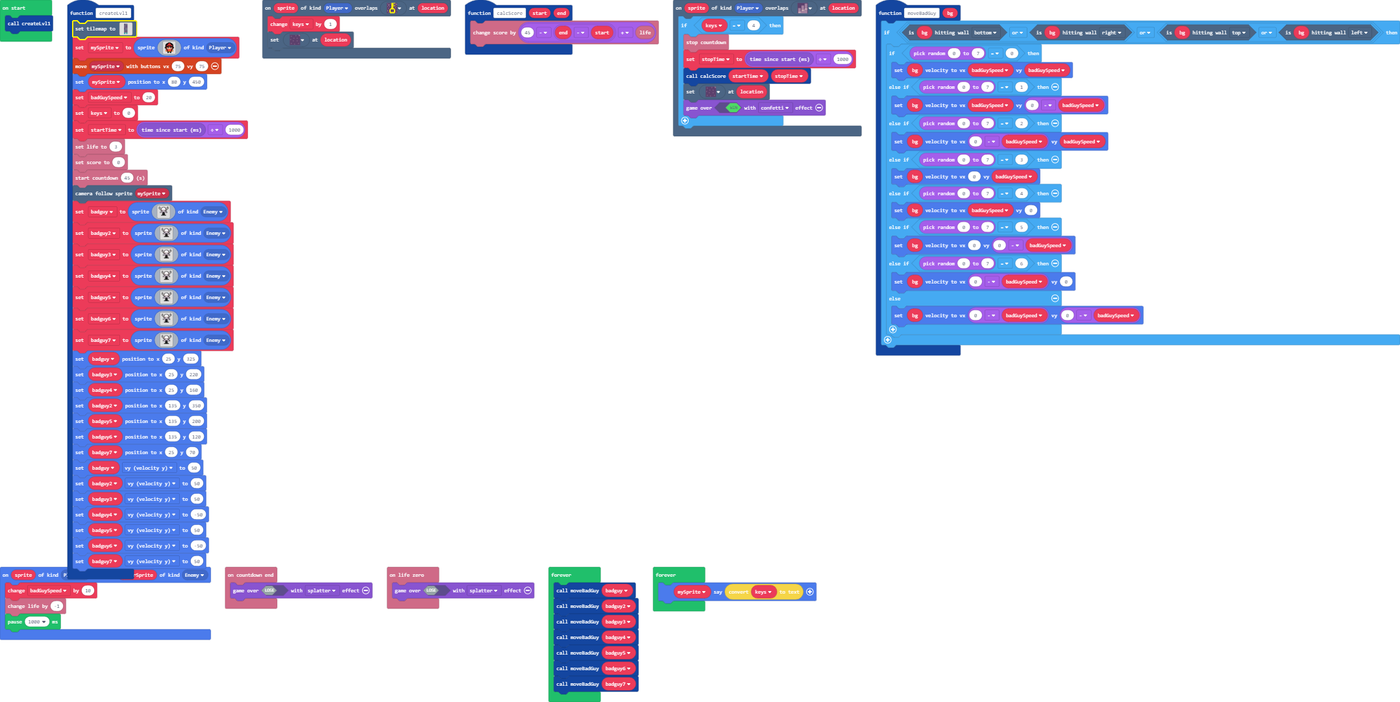
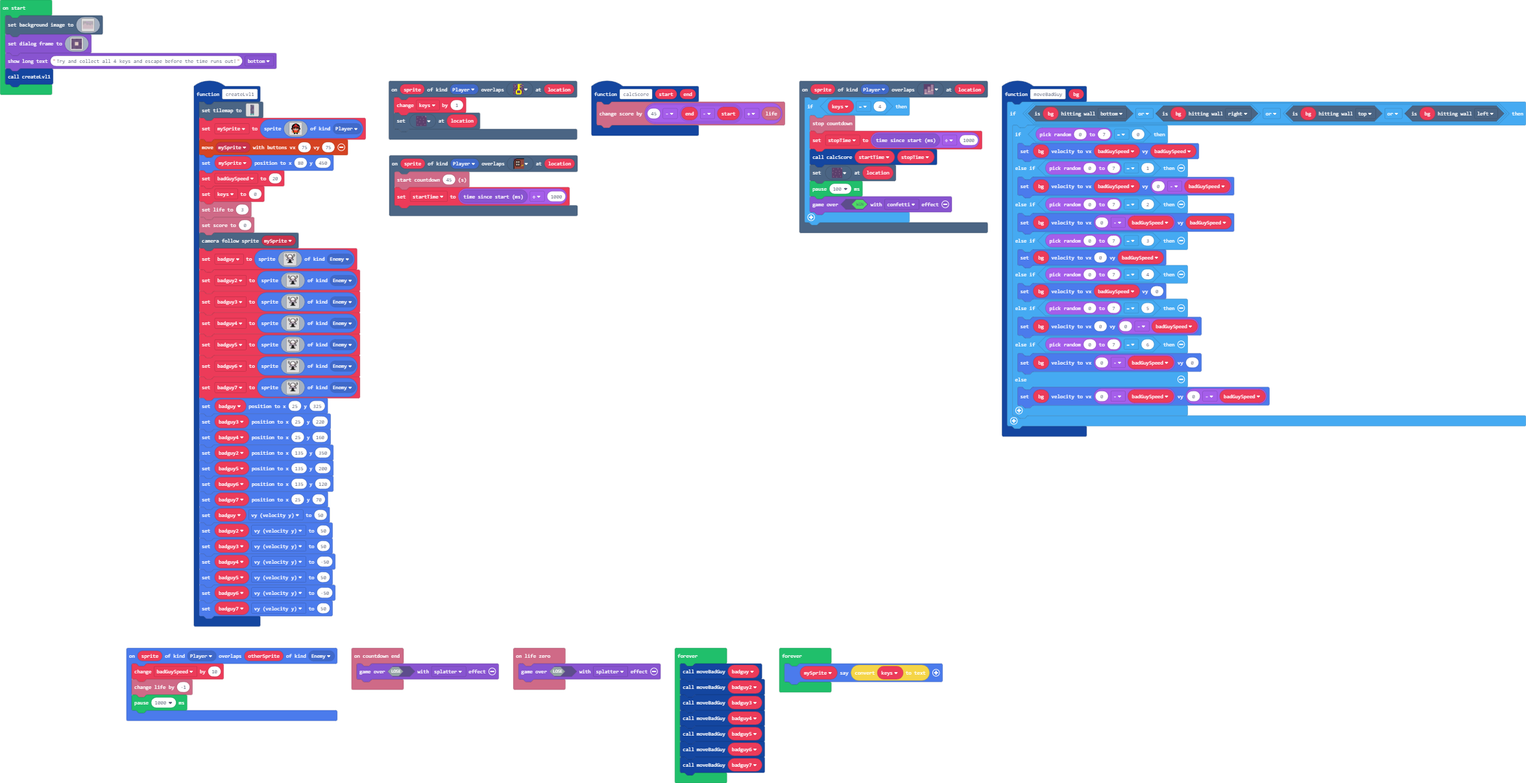
added title screen

diff --git a/main.ts b/main.ts
@@ -37,10 +37,48 @@ c c c c 5 5 c c c c c 5 5 c c c
 c c b c 5 5 5 5 5 5 5 5 5 c b c 
 c c c c c 5 5 5 5 5 5 5 c c c c 
 `
+    //% blockIdentity=images._tile
+    export const tile2 = img`
+c c c c f f f f f f f f f f f f 
+c c f f e e e e e e e e e e e e 
+c f e e e e e e e e e e e e e e 
+c f e f f f f f f f e e e e e e 
+f e e f d d f d d f e e e e e e 
+f e e f d d f d d f e e e e e e 
+f e e f d d f d d f e e e e e e 
+f e e f f f f f f f e e e e e e 
+f e e f d d f d d f e e e e e e 
+f e e f d d f d d f e e e e e e 
+f e e f d d f d d f e e e 5 5 e 
+f e e f f f f f f f e e 5 e e e 
+f e e e e e e e e e e e e e e e 
+f e e e e e e e e e e e e e e e 
+f e e e e e e e e e e e e e e e 
+f e e e e e e e e e e e e e e e 
+`
+    //% blockIdentity=images._tile
+    export const tile3 = img`
+f f f f f f f f f f f f c c c c 
+e e e e e e e e e e e e f f c c 
+e e e e e e e e e e e e e e f c 
+e e e e e e f f f f f f f e f c 
+e e e e e e f d d f d d f e e f 
+e e e e e e f d d f d d f e e f 
+e e e e e e f d d f d d f e e f 
+e e e e e e f f f f f f f e e f 
+e e e e e e f d d f d d f e e f 
+e e e e e e f d d f d d f e e f 
+e 5 5 e e e f d d f d d f e e f 
+e e e 5 e e f f f f f f f e e f 
+e e e e e e e e e e e e e e e f 
+e e e e e e e e e e e e e e e f 
+e e e e e e e e e e e e e e e f 
+e e e e e e e e e e e e e e e f 
+`
 }
 function createLvl1 () {
     tiles.setTilemap(tiles.createTilemap(
[2 lines of base64/hex data omitted]
             img`
 . . . . . . . . . . 
 . 2 2 2 2 2 2 2 2 2 
@@ -73,7 +111,7 @@ function createLvl1 () {
 . . . . . . . . . . 
 . . . . . . . . . . 
 `,
-            [myTiles.tile0,sprites.castle.rock0,sprites.castle.tileGrass2,sprites.castle.tilePath6,sprites.castle.tilePath4,sprites.dungeon.floorLight2,sprites.dungeon.floorLight0,sprites.dungeon.greenOuterSouth0,sprites.dungeon.greenOuterSouthWest,sprites.dungeon.greenOuterNorthWest,sprites.dungeon.floorLight4,sprites.dungeon.greenOuterEast1,sprites.dungeon.greenOuterSouthEast,sprites.dungeon.greenOuterWest1,sprites.dungeon.greenOuterNorth0,sprites.dungeon.doorLockedWest,sprites.dungeon.greenOuterEast0,sprites.dungeon.greenOuterNorthEast,sprites.dungeon.greenInnerSouthEast,sprites.dungeon.greenInnerNorthWest,sprites.dungeon.stairLarge,sprites.dungeon.darkGroundSouthWest1,myTiles.tile1,sprites.castle.tileGrass1,sprites.castle.tileDarkGrass1],
+            [myTiles.tile0,sprites.castle.rock0,sprites.castle.tileGrass2,sprites.castle.tilePath6,sprites.castle.tilePath4,sprites.dungeon.floorLight2,sprites.dungeon.floorLight0,sprites.dungeon.greenOuterSouth0,sprites.dungeon.greenOuterSouthWest,sprites.dungeon.greenOuterNorthWest,sprites.dungeon.floorLight4,sprites.dungeon.greenOuterEast1,sprites.dungeon.greenOuterSouthEast,sprites.dungeon.greenOuterWest1,sprites.dungeon.greenOuterNorth0,sprites.dungeon.doorLockedWest,sprites.dungeon.greenOuterEast0,sprites.dungeon.greenOuterNorthEast,sprites.dungeon.greenInnerSouthEast,sprites.dungeon.greenInnerNorthWest,sprites.dungeon.stairLarge,sprites.dungeon.darkGroundSouthWest1,myTiles.tile1,sprites.castle.tileGrass1,sprites.castle.tileDarkGrass1,myTiles.tile2,myTiles.tile3],
             TileScale.Sixteen
         ))
     mySprite = sprites.create(img`
@@ -98,10 +136,8 @@ function createLvl1 () {
     mySprite.setPosition(80, 450)
     badGuySpeed = 20
     keys = 0
-    startTime = game.runtime() / 1000
     info.setLife(3)
     info.setScore(0)
-    info.startCountdown(45)
     scene.cameraFollowSprite(mySprite)
     badguy = sprites.create(img`
 . . f . . . . . . . . . . . . . . . . . . f . . 
@@ -313,6 +349,7 @@ scene.onOverlapTile(SpriteKind.Player, sprites.dungeon.stairLarge, function (spr
         stopTime = game.runtime() / 1000
         calcScore(startTime, stopTime)
         tiles.setTileAt(location, sprites.dungeon.darkGroundSouthWest1)
+        pause(100)
         game.over(true, effects.confetti)
     }
 })
@@ -345,9 +382,14 @@ sprites.onOverlap(SpriteKind.Player, SpriteKind.Enemy, function (sprite, otherSp
 info.onCountdownEnd(function () {
     game.over(false, effects.splatter)
 })
+scene.onOverlapTile(SpriteKind.Player, myTiles.tile2, function (sprite, location) {
+    info.startCountdown(45)
+    startTime = game.runtime() / 1000
+})
 info.onLifeZero(function () {
     game.over(false, effects.splatter)
 })
+let startTime = 0
 let stopTime = 0
 let badguy7: Sprite = null
 let badguy6: Sprite = null
@@ -356,10 +398,149 @@ let badguy4: Sprite = null
 let badguy3: Sprite = null
 let badguy2: Sprite = null
 let badguy: Sprite = null
-let startTime = 0
 let keys = 0
 let badGuySpeed = 0
 let mySprite: Sprite = null
+scene.setBackgroundImage(img`
+c c c c c c c c c c c c c c c c c c c c c c c c c c c c c c c c c c c c c c c c c c c c c c c c c c c c c c c c c c c c c c c c c c c c c c c c c c c c c c c c c c c c c c c c c c c c c c c c c c c c c c c c c c c c c c c c c c c c c c c c c c c c c c c c c c c c c c c c c c c c c c c c c c c c c c c c c c c c c c c c 
+c c c c c c c c c c c c c c c c c c c c c c c c c c c c c c c c c c c c c c c c c c c c c c c c c c c c c c c c c c c c c c c c c c c c c c c c c c c c c c c c c c c c c c c c c c c c c c c c c c c c c c c c c c c c c c c c c c c c c c c c c c c c c c c c c c c c c c c c c c c c c c c c c c c c c c c c c c c c c c c c 
+c c c c c c c c c c c c c c c c c c c c c c c c c c c c c c c c c c c c c c c c c c c c c c c c c c c c c c c c a a a d c c c c c c c c c c a a a d c c c c c c c c c c c c c c c c c c c c c c c c c c c c c c c c c c c c c c c c c c c c c c c c c c c c c c c c c c c c c c c c c c c c c c c c c c c c c c c c c c c c c c 
+c c c c c c c c c c c c c c c c c c c c c c c c c c c c c c c c c c c c c c c c c c c c c c c c c c c c c c c c a a a d c c c c c c c c c c a a a d c c c c c c c c c c c c c c c c c c c c c c c c c c c c c c c c c c c c c c c c c c c c c c c c c c c c c c c c c c c c c c c c c c c c c c c c c c c c c c c c c c c c c c 
+c c c c c c c c c c c c c c c c c c c c c c c c c c c c c c c c c c c c c c c c c c c c c c c c c c c c c c c c a a a d c c c c c c c c c c a a a d c c c c c c c c c c c c c c c c c c c c c c c c c c c c c c c c c c c c c c c c c c c c c c c c c c c c c c c c c c c c c c c c c c c c c c c c c c c c c c c c c c c c c c 
+c c c c c c c c c c c c c c c c c c c c c c c c c c c c c c c c c c c c c c c c c c c c c c c c c c c c c c c c a a a a d c c c c c c c c a a a a d c c c c c c c c c c c c c c c c c c c c c c c c c c c c c c c c c c c c c c c c c c c c c c c c c c c c c c c c c c c c c c c c c c c c c c c c c c c c c c c c c c c c c c 
+c c c c c c c c c c c c c c c c c c c c c c c c c c c c c c c c c c c c c c c c c c c c c c c c c c c c c c c c a a a a d c c c c c c c c a a a a d c c c c c c c c c c c c c c c c c c c c c c c c c c c c c c c c c c c c c c c c c c c c c c c c c c c c c c c c c c c c c c c c c c c c c c c c c c c c c c c c c c c c c c 
+c c c c c c c c c c c c c c c c c c c c c c c c c c c c c c c c c c c c c c c c c c c c c c c c c c c c c c c c a a a a d c c c c c c c c a a a a d c c c c c c c c c c c c c c c c c c c c c c c c c c c c c c c c c c c c c c c c c c c c c c c c c c c c c c c c c c c c c c c c c c c c c c c c c c c c c c c c c c c c c c 
+c c c c c c c c c c c c c c c c c c c c c c c c c c c c c c c c c c c c c c c c c c c c c c c c c c c c c c c c a a a a d c c c c c c c c a a a a d c c c c c c c c c c c c c c c c c c c c c c c c c c c c c c c c c c c c c c c c c c c c c c c c c c c c c c c c c c c c c c c c c c c c c c c c c c c c c c c c c c c c c c 
+c c c c c c c c c c c c c c c c c c c c c c c c c c c c c c c c c c c c c c c c c c c c c c c c c c c c c c c c c a a a d c c c c c c c c a a a d c c c c c c c c c c c c c c c c c c c c c c c c c c c c c c c c c c c c c c c c c c c c c c c c c c c c c c c c c c a a a d c c c c c c c c c c c c c c c c c c c c c c c c c 
+c c c c c c c c c c c c c c c c c c c c c c c c c c c c c c c c c c c c c c c c c c c c c c c c c c c c c c c c c a a a d c c c c c c c c a a a d c c c c c c c c c c c c c c c c c c c c c c c c c c c c c c c c c c c c c c c c c c c c c c c c c c c c c c c c c c a a a d c c c c c c c c c c c c c c c c c c c c c c c c c 
+c c c c c c c c c c c c c c c c c c c c c c c c c c c c c c c c c c c c c c c c c c c c c c c c c c c c c c c c c a a a d c c c c c c c c a a a d c c c c c c c c c c c c c c c c c c c c c c c c c c c c c c c c c c c c c c c c c c c c c c c c c c c c c c c c c c a a a d c c c c c c c c c c c c c c c c c c c c c c c c c 
+c c c c c c c c c c c c c c c c c c c c c c c c c c c c c c c c c c c c c c c c c c c c c c c c c c c c c c c c c a a a d c c c c c c c c a a a d c c c c c c c c c c c c c c c c c c c c c c c c c c c c c c c c c c c c c c c c c c c c c c c c c c c c c c c c c c a a a d c c c c c c c c c c c c c c c c c c c c c c c c c 
+c c c c c c c c c c c c c c c c c c c c c c c c c c c c c c c c c c c c c c c c c c c c c c c c c c c c c c c c c a a a a a a a a a a a a a a a d c c c c c c c c c c c c c c c c c c c c c c c c c c c c c c c c c c c c c c c c c c c c c c c c c c c c c c c c c c a a a d c c c c c c c c c c c c c c c c c c c c c c c c c 
+c c c c c c c c c c c c c c c c c c c c c c c c c c c c c c c c c c c c c c c c c c c c c c c c c c c c c c c c c a a a a a a a a a a a a a a a d c c c c c c c c c c c c c c c c c c c c c c c c c c c c c c c c c c c c c c c c c c c c c c c c c c c c c c c c c c a a a d c c c c c c c c c c c c c c c c c c c c c c c c c 
+c c c c c c c c c c c c c c c c c c c c c c c c c c c c c c c c c c c c c c c c c c c c c c c c c c c c c c c c c a a a a a a a a a a a a a a a d c c c c c c c c c c c c c c c c c c c c c c c c c c c c c c c c c c c c c c c c c c c c c c c c c c c c c c c c c c a a a d c c c c c c c c c c c c c c c c c c c c c c c c c 
+c c c c c c c c c c c c c c c c c c c c c c c c c c c c c c c c c c c c c c c c c c c c c c c c c c c c c c c c c a a a d d d d d d d d d a a a d c c c c c c c c c c c c c c c c c c c c c c c c c c c c c c c c c c c c c c c c c c c c c c c c c c c c c c a a a a a a a a a a a d c c c c c c c c c c c c c c c c c c c c c 
+c c c c c c c c c c c c c c c c c c c c c c c c c c c c c c c c c c c c c c c c c c c c c c c c c c c c c c c c c a a a d c c c c c c c c a a a d c c c c c c a a a a a a a a d c c c c c c a a a d c c c c c c a a a d c c c c a a a d c c c c c c c c c c c a a a a a a a a a a a d c c c c c c c c c c c c c c c c c c c c c 
+c c c c c c c c c c c c c c c c c c c c c c c c c c c c c c c c c c c c c c c c c c c c c c c c c c c c c c c c c a a a d c c c c c c c c a a a d c c c c c c a a a a a a a a d c c c c c c a a a d c c c c c c a a a d c c c c a a a a a a a a a d c c c c c a a a a a a a a a a a d c c c c c c c c c c c c c c c c c c c c c 
+c c c c c c c c c c c c c c c c c c c c c c c c c c c c c c c c c c c c c c c c c c c c c c c c c c c c c c c c c a a a d c c c c c c c c a a a d c c c c c a a a a a a a a a a d c c c c c a a a d c c c c c c a a a d c c c c a a a a a a a a a a d c c c c c c c c a a a d c c c c c c c c c c c c c c c c c c c c c c c c c 
+c c c c c c c c c c c c c c c c c c c c c c c c c c c c c c c c c c c c c c c c c c c c c c c c c c c c c c c c c a a a d c c c c c c c c a a a d c c c c c a a a d d d d a a a d c c c c c a a a d c c c c c c a a a d c c c c a a a a a a a a a a a d c c c c c c c a a a d c c c c c c c c c c c c c c c c c c c c c c c c c 
+c c c c c c c c c c c c c c c c c c c c c c c c c c c c c c c c c c c c c c c c c c c c c c c c c c c c c c c c c a a a d c c c c c c c c a a a d c c c c c a a a d c c c a a a d c c c c c a a a d c c c c c c a a a d c c c c a a a a d d d a a a a d c c c c c c c a a a d c c c c c c c c c c c c c c c c c c c c c c c c c 
+c c c c c c c c c c c c c c c c c c c c c c c c c c c c c c c c c c c c c c c c c c c c c c c c c c c c c c c c c a a a d c c c c c c c c a a a d c c c c c a a a d c c c a a a d c c c c c a a a d c c c c c c a a a d c c c c a a a d c c c c a a a d c c c c c c c a a a d c c c c c c c c c c c c c c c c c c c c c c c c c 
+c c c c c c c c c c c c c c c c c c c c c c c c c c c c c c c c c c c c c c c c c c c c c c c c c c c c c c c c a a a a d c c c c c c c c a a a a d c c c c a a a d c c c a a a d c c c c c a a a d c c c c c c a a a d c c c c a a a d c c c c a a a d c c c c c c c a a a d c c c c c c c c c c c c c c c c c c c c c c c c c 
+c c c c c c c c c c c c c c c c c c c c c c c c c c c c c c c c c c c c c c c c c c c c c c c c c c c c c c c c a a a a d c c c c c c c c a a a a d c c c c a a a d c c c a a a d c c c c c a a a d c c c c c c a a a d c c c c a a a d c c c c a a a d c c c c c c c a a a d c c c c c c c c c c c c c c c c c c c c c c c c c 
+c c c c c c c c c c c c c c c c c c c c c c c c c c c c c c c c c c c c c c c c c c c c c c c c c c c c c c c c a a a a d c c c c c c c c a a a a d c c c c a a a d c c c a a a d c c c c c a a a d c c c c c c a a a d c c c c a a a d c c c c a a a d c c c c c c c a a a d c c c c c c c c c c c c c c c c c c c c c c c c c 
+c c c c c c c c c c c c c c c c c c c c c c c c c c c c c c c c c c c c c c c c c c c c c c c c c c c c c c c c a a a d c c c c c c c c c c a a a d c c c c a a a a a a a a a a d c c c c c a a a d c c c c c c a a a d c c c c a a a d c c c c a a a d c c c c c c c a a a d c c c c c c c c c c c c c c c c c c c c c c c c c 
+c c c c c c c c c c c c c c c c c c c c c c c c c c c c c c c c c c c c c c c c c c c c c c c c c c c c c c c c a a a d c c c c c c c c c c a a a d c c c c c a a a a a a a a a a a d c c c a a a a a a a a a a a a a d c c c c a a a d c c c c a a a d c c c c c c c a a a a d c c c c c c c c c c c c c c c c c c c c c c c c 
+c c c c c c c c c c c c c c c c c c c c c c c c c c c c c c c c c c c c c c c c c c c c c c c c c c c c c c c c a a a d c c c c c c c c c c a a a d c c c c c a a a a a a a a a a a d c c c a a a a a a a a a a a a a d c c c c a a a d c c c c a a a d c c c c c c c a a a a a a a d c c c c c c c c c c c c c c c c c c c c c 
+c c c c c c c c c c c c c c c c c c c c c c c c c c c c c c c c c c c c c c c c c c c c c c c c c c c c c c c c c c c c c c c c c c c c c c c c c c c c c c c d d d d d d d a a a a d c c c c a a a a a a a a a a a d c c c c c a a a d c c c c a a a d c c c c c c c d a a a a a a d c c c c c c c c c c c c c c c c c c c c c 
+c c c c c c c c c c c c c c c c c c c c c c c c c c c c c c c c c c c c c c c c c c c c c c c c c c c c c c c c c c c c c c c c c c c c c c c c c c c c c c c c c c c c c c d d d d c c c c c d d d d d d d d d d d c c c c c c a a a d c c c c a a a d c c c c c c c c d a a a a a d c c c c c c c c c c c c c c c c c c c c c 
+c c c c c c c c c c c c c c c c c c c c c c c c c c c c b c c c c c c c c c c c c c c c c c c c c c c c c c c c c c c c c c c c c c c c c c c c c c c c c c c c c c c c c c c c c c c c c c c c c c c c c c c c c c c c c c c c d d d c c c c c d d d c c c c c c c c c c d d d d d c c c c c c c c c c c c c c c c c c c c c c 
+c c c c c c c c c c c c c c c c c c c c c c c c c c c b b c c c c c c b c c c c c c c c c c c c c c c c c c c c c c c c c c c c c c c c c c c c c c c c c c c c c c c c c c c c c c c c c c c c c c c c c c c c c c c c c c c c c c c c c c c c c c c c c c c c c c c c c c c c c c c c c c c c c c c c c c c c c c c c c c c c 
+c c c c c c c c c c c c c c c c c c c c c c c c c c c b b b c c c c c b c c c c c c c c c c c c b c c c c c c c c c c c c c c c c c c c c c c c c c c c c c c c c c c c c c c c c c c c c c c c c c c c c c c c c c c c c c c c c c c c c c c c c c c c c c c c c c c c c c c c c c c c c c c c c c c c c c c c c c c c c c c c 
+c c c c c c c c c c c c c c c c c c c c c c c c c c b b b b b c c c c b b c c c c c c c c c c b b b c c c c c c c c c c c c c c c c c c c c c c c c c c c c c c c c c c c c c c c c c c c c c c c c c c c c c c c c c c c c c c c c c c c c c c c c c c c c c c c c c c c c c c c c c c c c c c c c c c c c c c c c c c c c c c 
+c c c c c c c c c c c c c c c c c c c c c c c c c b b b b b b b c c c b b c c c c c c c c c c b b b c c c c c c c c c c c c c c c c c c c c c c c c c c c c c c c c c c c c c c c c c c c c c c c c c c c c c c c c c c c c c c c c c c c c c c c c c c c c c c c c c c c c c c c c c c c c c c c c c c c c c c c c c c c c c c 
+c c c c c c c c c c c c c c c c c c c c c c c c c b b b b b b c c c b b b c c c c c c c c c b b b b b c c c c c c c c c c c c c c c c c c c c c c c c c c c c c c c c c c c c c c c c c c c c c c c c c c c c c c c c c c c c c c c c c c c c c c c c c c c c c c c c c c c c c c c c c c c c c c c c c c c c c c c c c c c c c 
+c c c c c c c c c c c c c c c c c c c c c c c c c c b b b b b c c c b b b b c c c c c c c c b b b b b b c c c c c c c c c c c c c c c c c c c c c c c c c c c c c c c c c c c c c c c c c c c c c c c c c c c c c c c c c c c c c c c c c c c c c c c c c c c c c c c c c c c c c c c c c c c c c c c c c c c c c c c c c c c c 
+c c c c c c c c c c c c c c c c c c c c c c c c c b b b b b b b c c c b b c c c c c c c c c c b b b b c c c c c c c c c c c c c c c c c c c c c c c c c c c c c c c c c c c c c c c c c c c c c c c c c c c c c c c c c c c c c c c c c c c c c c c c c c c c c c c c c c c c c c c c c c c c c c c c c c c c c c c c c c c c c 
+c c c c c c c c c c c c c c c c c c c c c c c c c c b b b b b b b c c b b b c c c c c c c b b b b b b c c c c c c c c c c c c c c c c c c c c c c c c c c c c c c c c c c c c c c c c c c c c c c c c c c c c c c c c c c c c c c c c c c c c c c c c c c c c c c c c c c c c c c c c c c c c c c c c c c c c c c c c c c c c c 
+c c c c c c c c c c c c c c c c c c c c c c c c c b b b b b b c c c b b b c c c c c c c c c b b b b b b c c c c c c c c c c c c c c c c c c c c c c c c c c c c c c c c c c c c c c c c c c c c c c c c c c c c c c c c c c c c c c c c c c c c c c c c c c c c c c c c c c c c c c c c c c c c c c c c c c c c c c c c c c c c 
+c c c c c c c c c c c c c c c c c c c c c c c c b b b b b b b b c c b b b b c c c c c c c b b b b b b b b c c c c c c c c c c c c c c c c c c c c c c c c c c c c c c c c c c c c c c c c c c c c c c c c c c c c c c c c c c c c c c c c c c c c c c c c c c c c c c c c c c c c c c c c c c c c c c c c c c c c c c c c c c c 
+c c c c c c c c c c c c c c c c c c c c c c c c c c b b b b b b b b b b b b c c c c c c b b b b b b b c c c c c c c c c c c c c c c c c c c c c c c c c c c c c c c c c c c c c c c c c c c c c c c c c c c c c c c c c c c c c c c c c c c c c c c c c c c c c c c c c c c c c c c c c c c c c c c c c c c c c c c c c c c c c 
+c c c c c c c c c c c c c c c c c c c c c c c c c b b b b b b b b b b b b b b b b b b b b b b b b b b b c c c c c c c c c c c c c c c c c c c c c c c c c c c c c c c c c c c c c c c c c c c c c c c c c c c c c c c c c c c c c c c c c c c c c c c c c c c c c c c c c c c c c c c c c c c c c c c c c c c c c c c c c c c c 
+c c c c c c c c c c c c c b c c c c c c c c c c b b b b b b b b b b b b b b b b b b b b b b b b b b b b b c c c c c c c c c c c c c c c c c c c c c c c c c c c c c c c c c c c c c c c c c c c c c c c c c c c c c c c c c c c c c c c c c c c c c c c c c c c c c c c c c c c c c c c c b c c c c c c c c c c c c c c c c c c 
+c c c c c c c c c c c c b b b c c c c c c c c c c c b b b b b b b b b b b b b b b b b b b b b b b c c c c c c c c c c c c c c c c c c c c c c c c c c c c c c c c c c c c c c c c c c c c c c c c c c c c c c c c c c c c c c c c c c c c c c c c c c c c c c c c c c c c c c b c c c c b b c c c c c c c c c c c c c c c c c c 
+c c c c c c c c c c c c b b c c c c c c c c c c b b b b b b b b b b b b b b b b b b b b b b b b b b c c c c c c c c c c c c c c c c c c c c c c c c c c c c c c c c c c b c c c c c c c c c c c c c c c c c c c c c c c c c c c c c c c c c c c c c c c c c c c c c c c c c c b b c c c b b c c c c c c c c c c c c c c c c c c 
+c c c c c c c c c c c b b b c c c c c c c c c b b b b b b b b b b b b b b b b b b b b b b b b b b b b c c c c c c c c c c c c c c c c c c c c c c c c c c c c c c c c c b b c c c c c c c c c c c c c c c c c c c c c c c c c c c c c c c c c c c c c c c c c c c c c c c c c b b c c b b b c c c c c c c c c c c c c c c c c c 
+c c c c c c c c c c b b b b b c c c c c c b b b b b b b b b b b b b b b b b b b b b b b b b b b b b b b c c c c c c c c c c c c c c c c c c c c c c c c c c c c c c c c b b c c c c c c c c c c c c c c c c c c c c c c c c c c c c c c c c c c c c c c c c c c c c b c c c b b b b c b b b b b c c c c c c c c c c c c c c c c 
+c c c c c c c c c c c b b b c c c c c b b b b b b b b b b b b b b b b b b b b b b b b b b b b b b b b b b c c c c c c c c c c c c c c c c c c c c c c c c c c c c c c b b b b c c c c c c c c c c c c c c c c c c c c c c c c c c c c c c c c c c c c c c c c c c b b b c c b b b b c c b b c c c c c c c c c c c c c c c c c c 
+c c c c c c c c c c c c b b b c c c b b b b b b b b b b b b b b b b b b b b b b b b b b b b b b b b b b b b c c c c c c c c c c c c c c c c c c c c c c c c c c c c c b b b b c c c c b c c c c c c c c c c c c c c c c c c c c c c c c c c c c c c c c c c c c c b b b c c c b b c c b b b b b b c c c c c c c c c c c c c c c 
+c c c c c c c c c c b b b b c c b b b b b b b b b b b b b b b b b b b b b b b b b b b b b b b b b b b b b b b c c c c c c c c c c c c c c c c c c c c c b b c c c c c c b b c c c c c b c c c c c c c c c c c c c c c c c c c c c c c c c c c c c c c c c c c c b b b b c b b b b b b b b b c c c c c c c c c b c c c c c c c c 
+c c c c c c c c c c c b b b b b b b b b b b b b b b b b b b b b b b b b b b b b b b b b b b b b b b b b b b b b c c c c c c c c c c c c c c c c c c c b b b c c c c b b b b b b c c c b b c c c c c c c c c c c c c c c c c c c c c c c c c c c c c c c c c c c c c b b b b b b b b b b b b b c c c c c c c c b c c c c c c c c 
+c c c c c c c c c c c c b b b b b b b b b b b b b b b b b b b b b b b b b b b b b b b b b b b b b b b b b b b b b c c c c c c c c c c c c c c c c c b b b b c c c c c b b b b c c c c b b c c c c c c c c c c c c c c c c c c c c c c c c c c c c c c c c c c c c b b b b b b b b b b b b b c c c c c c c c b b b b c c c c c c 
+c c c c c c c c c c c c b b b b b b b b b b b b b b b b b b b b b b b b b b b b b b b b b b b b b b b b b b b b b b c c c c c c c c c c c c c c c c c c b b b c c c c b b b b b c c b b b c c c c c c c c c c c c c b c c c c c c c c c c c c c c c c c c c c b b b b b b b b b b b b b b b c c c c c c c c c b c c c c c c c c 
+c c c c c c c c c c c b b b b b b b b b b b b b b b b b b b b b b b b b b b b b b b b b b b b b b b b b b b b b b b c c c c c c c c c c c c c c c c b b b b b b c b b b b b b b b c b b b b c c c c c c c c c c c b b c c c c c c c c c c c c c c c c c c c c c b b b b b b b b b b b b b b b b b c c c c b b b b c c c c c c c 
+c c c c c c c c c c b b b b b b b b b b b b b b b b b b b b b b b b b b b b b b b b b b b b b b b b b b b b b b b b b c c c c c c c c c c c c c c b b b b b b b b b b b b b b b b b b b b c c c c c c c c c c c c b b b c c c c c c c c c c c c c b c c c c c b b b b b b b b b b b b b b b b b b b b c c c b b b c c c c c c c 
+c c c c c c c c b b b b b b b b b b b b b b b b b b b b b b b b b b b b b b b b b b b b b b b b b b b b b b b b b b b b c c c c c c c c c c c c c c c b b b b b b b b b b b b b b b b b b b c c c c c c c c c c b b b b b c c c c c c c c c c c c b c c c c b b b b b b b b b b b b b b b b b b b b b b c c b b b b b c c c c c 
+c c c c c c c b b b b b b b b b b b b b b b b b b b b b b b b b b b b b b b b b b b b b b b b b b b b b b b b b b b b b b c c c c c c c c c c c c c b b b b b b b b b b b b b b b b b b b c c c c c c c c c c b b b b b b b c c c c c c c c c c c b b c c c c c b b b b b b b b b b b b b b b b b b b b b b b b b b c c c c c c 
+c c c c c c b b b b b b b b b b b b b b b b b b b b b b b b b b b b b b b b b b b b b b b b b b b b b b b b b b b b b b b b c c c c c c c c c c c b b b b b b b b b b b b b b b b b b b b b b b c c c c c c c b b b b b b c c c c c c c c c c c c b b c c c c b b b b b b b b b b b b b b b b b b b b b b b b b b c c c c c c c 
+c c c c c b b b b b b b b b b b b b b b b b b b b b b b b b b b b b b b b b b b b b b b b b b b b b b b b b b b b b b b b b b c c c c c c c c c c c c c b b b b b b b b b b b b b b b b b b b b b b b c c c c c b b b b b c c c c c c c c c c c b b b c c c c b b b b b b b b b b b b b b b b b b b b b b b b b b c c c c c c c 
+c c c b b b b b b b b b b b b b b b b b b b b b b b b b b b b b b b b b b b b b b b b b b b b b b b b b b b b b b b b b b b b b c c c c c c c c c c c b b b b b b b b b b b b b b b b b b b b b b b b b b c c b b b b b b b c c c c c c c c c c c b c c c c b b b b b b b b b b b b b b b b b b b b b b b b b b b b c c c c c c 
+c c b b b b b b b b b b b b b b b b b b b b b b b b b b b b b b b b b b b b b b b b b b b b b b b b b b b b b b b b b b b b b b b c c c c c c c c b b b b b b b b b b b b b b b b b b b b b b b b b b b b b b b b b b b b b c c c c c c c c c c b b b b c c b b b b b b b b b b b b b b b b b b b b b b b b b b b b b b c c c c 
+c b b b b b b b b b b b b b b b b b b b b b b b b b b b b b b b b b b b b b b b b b b b b b b b b b b b b b b b b b b b b b b b b b b c c c c c b b b b b b b b b b b b b b b b b b b b b b b b b b b b b b b b b b b b b c c c c c c c c c c c c b b c c b b b b b b b b b b b b b b b b b b b b b b b b b b b b b b b b b c c 
+b b b b b b b b b b b b b b b b b b b b b b b b b b b b b b b b b b b b b b b b b b b b b b b b b b b b b b b b b b b b b b b b b b b b c c c b b b b b b b b b b b b b b b b b b b b b b b b b b b b b b b b b b b b b b b c c c c c c c c c b b b b b b b b b b b b b b b b b b b b b b b b b b b b b b b b b b b b b b b b b 
+b b b b b b b b b b b b b b b b b b b b b b b b b b b b b b b b b b b b b b b b b b b b b b b b b b b b b b b b b b b b b b b b b b b b b b b b b b b b b b b b b b b b b b b b b b b b b b b b b b b b b b b b b b b b b b c c c c c c c c c c b b b b b b b b b b b b b b b b b b b b b b b b b b b b b b b b b b b b b b b b 
+b b b b b b b b b b b b b b b b b b b b b b b b b b b b b b b b b b b b b b b b b b b b b b b b b b b b b b b b b b b b b b b b b b b b b b b b b b b b b b b b b b b b b b b b b b b b b b b b b b b b b b b b b b b b b b b c c c c c c c c c c b b b b b b b b b b b b b b b b b b b b b b b b b b b b b b b b b b b b b b b 
+b b b b b b b b b b b b b b b b b b b b b b b b b b b b b b b b b b b b b b b b b b b b b b b b b b b b b b b b b b b b b b b b b b b b b b b b b b b b b b b b b b b b b b b b b b b b b b b b b b b b b b b b b b b b b b b b c c c c c c c b b b b b b b b b b b b b b b b b b b b b b b b b b b b b b b b b b b b b b b b b 
+b b b b b b b b b b b b b b b b b b b b b b b b b b b b b b b b b b b b b b b b b b b b b b b b b b b b b b b b b b b b b b b b b b b b b b b b b b b b b b b b b b b b b b b b b b b b b b b b b b b b b b b b b b b b b b b b b b c c c c b b b b b b b b b b b b b b b b b b b b b b b b b b b b b b b b b b b b b b b b b b 
+b b b b b b b b b b b b b b b b b b b b b b b b b b b b b b b b b b b b b b b b b b b b b b b b b b b b b b b b b b b b b b b b b b b b b b b b b b b b b b b b b b b b b b b b b b b b b b b b b b b b b b b b b b b b b b b b b b b b b b b b b b b b b b b b b b b b b b b b b b b b b b b b b b b b b b b b b b b b b b b b 
+b b b b b b b b b b b b b b b b b b b b b b b b b b b b b b b b b b b b b b b b b b b b b b b b b b b b b b b b b b b b b b b b b b b b b b b b b b b b b b b b b b b b b b b b b b b b b b b b b b b b b b b b b b b b b b b b b b b b b b b b b b b b b b b b b b b b b b b b b b b b b b b b b b b b b b b b b b b b b b b b 
+b b b b b b b b b b b b b b b b b b b b b b b b b b b b b b b b b b b b b b b b b b b b b b b b b b b b b b b b b b b b b b b b b b b b b b b b b b b b b b b b b b b b b b b b b b b b b b b b b b b b b b b b b b b b b b b b b b b b b b b b b b b b b b b b b b b b b b b b b b b b b b b b b b b b b b b b b b b b b b b b 
+b b b b b b b b b b b b b b b b b b b b b b b b b b b b b b b b b b b b b b b b b b b b b b b b b b b b b b b b b b b b b b b b b b b b b b b b b b b b b b b b b b b b b b b b b b b b b b b b b b b b b b b b b b b b b b b b b b b b b b b b b b b b b b b b b b b b b b b b b b b b b b b b b b b b b b b b b b b b b b b b 
+b b b b b b b b b b b b b b b b b b b b b b b b b b b b b b b b b b b b b b b b b b b b b b b b b b b b b b b b b b b b b b b b b b b b b b b b b b b b b b b b b b b b b b b b b b b b b b b b b b b b b b b b b b b b b b b b b b b b b b b b b b b b b b b b b b b b b b b b b b b b b b b b b b b b b b b b b b b b b b b b 
+b b b b b b b b b b b b b b b b b b b b b b b b b b b b b b b b b b b b b b b b b b b b b b b b b b b b b b b b b b b b b b b b b b b b b b b b b b b b b b b b b b b b b b b b b b b b b b b b b b b b b b b b b b b b b b b b b b b b b b b b b b b b b b b b b b b b b b b b b b b b b b b b b b b b b b b b b b b b b b b b 
+b b b b b b b b b b b b b b b b b b b b b b b b b b b b b b b b b b b b b b b b b b b b b b b b b b b b b b b b b b b b b b b b b b b b b b b b b b b b b b b b b b b b b b b b b b b b b b b b b b b b b b b b b b b b b b b b b b b b b b b b b b b b b b b b b b b b b b b b b b b b b b b b b b b b b b b b b b b b b b b b 
+b b b b b b b b b b b b b b b b b b b b b b b b b b b b b b b b b b b b b b b b b b b b b b b b b b b b b b b b b b b b b b b b b b b b b b b b b b b b b b b b b b b b b b b b b b b b b b b b b b b b b b b b b b b b b b b b b b b b b b b b b b b b b b b b b b b b b b b b b b b b b b b b b b b b b b b b b b b b b b b b 
+b b b b b b b b b b b b b b b b b b b b b b b b b b b b b b b b b b b b b b b b b b b b b b b b b b b b b b b b b b b b b b b b b b b b b b b b b b b b b b b b b b b b b b b b b b b b b b b b b b b b b b b b b b b b b b b b b b b b b b b b b b b b b b b b b b b b b b b b b b b b b b b b b b b b b b b b b b b b b b b b 
+b b b b b b b b b b b b b b b b b b b b b b b b b b b b b b b b b b b b b b b b b b b b b b b b b b b b b b b b b b b b b b b b b b b b b b b b b b b b b b b b b b b b b b b b b b b b b b b b b b b b b b b b b b b b b b b b b b b b b b b b b b b b b b b b b b b b b b b b b b b b b b b b b b b b b b b b b b b b b b b b 
+b b b b b b b b b b b b b b b b b b b b b b b b b b b b b b b b b b b b b b b b b b b b b b b b b b b b b b b b b b b b b b b b b b b b b b b b b b b b b b b b b b b b b b b b b b b b b b b b b b b b b b b b b b b b b b b b b b b b b b b b b b b b b b b b b b b b b b b b b b b b b b b b b b b b b b b b b b b b b b b b 
+b b b b b b b b b b b b b b b b b b b b b b b b b b b b b b b b b b b b b b b b b b b b b b b b b b b b b b b b b b b b b b b b b b b b b b b b b b b b b b b b b b b b b b b b b b b b b b b b b b b b b b b b b b b b b b b b b b b b b b b b b b b b b b b b b b b b b b b b b b b b b b b b b b b b b b b b b b b b b b b b 
+b b b b b b b b b b b b b b b b b b b b b b b b b b b b b b b b b b b b b b b b b b b b b b b b b b b b b b b b b b b b b b b b b b b b b b b b b b b b b b b b b b b b b b b b b b b b b b b b b b b b b b b b b b b b b b b b b b b b b b b b b b b b b b b b b b b b b b b b b b b b b b b b b b b b b b b b b b b b b b b b 
+b b b b b b b b b b b b b b b b b b b b b b b b b b b b b b b b b b b b b b b b b b b b b b b b b b b b b b b b b b b b b b b b b b b b b b b b b b b b b b b b b b b b b b b b b b b b b b b b b b b b b b b b b b b b b b b b b b b b b b b b b b b b b b b b b b b b b b b b b b b b b b b b b b b b b b b b b b b b b b b b 
+b b b b b b b b b b b b b b b b b b b b b b b b b b b b b b b b b b b b b b b b b b b b b b b b b b b b b b b b b b b b b b b b b b b b b b b b b b b b b b b b b b b b b b b b b b b b b b b b b b b b b b b b b b b b b b b b b b b b b b b b b b b b b b b b b b b b b b b b b b b b b b b b b b b b b b b b b b b b b b b b 
+b b b b b b b b b b b b b b b b b b b b b b b b b b b b b b b b b b b b b b b b b b b b b b b b b b b b b b b b b b b b b b b b b b b b b b b b b b b b b b b b b b b b b b b b b b b b b b b b b b b b b b b b b b b b b b b b b b b b b b b b b b b b b b b b b b b b b b b b b b b b b b b b b b b b b b b b b b b b b b b b 
+b b b b b b b b b b b b b b b b b b b b b b b b b b b b b b b b b b b b b b b b b b b b b b b b b b b b b b b b b b b b b b b b b b b b b b b b b b b b b b b b b b b b b b b b b b b b b b b b b b b b b b b b b b b b b b b b b b b b b b b b b b b b b b b b b b b b b b b b b b b b b b b b b b b b b b b b b b b b b b b b 
+b b b b b b b b b b b b b b b b b b b b b b b b b b b b b b b b b b b b b b b b b b b b b b b b b b b b b b b b b b b b b b b b b b b b b b b b b b b b b b b b b b b b b b b b b b b b b b b b b b b b b b b b b b b b b b b b b b b b b b b b b b b b b b b b b b b b b b b b b b b b b b b b b b b b b b b b b b b b b b b b 
+b b b b b b b b b b b b b b b b b b b b b b b b b b b b b b b b b b b b b b b b b b b b b b b b b b b b b b b b b b b b b b b b b b b b b b b b b b b b b b b b b b b b b b b b b b b b b b b b b b b b b b b b b b b b b b b b b b b b b b b b b b b b b b b b b b b b b b b b b b b b b b b b b b b b b b b b b b b b b b b b 
+b b b b b b b b b b b b b b b b b b b b b b b b b b b b b b b b b b b b b b b b b b b b b b b b b b b b b b b b b b b b b b b b b b b b b b b b b b b b b b b b b b b b b b b b b b b b b b b b b b b b b b b b b b b b b b b b b b b b b b b b b b b b b b b b b b b b b b b b b b b b b b b b b b b b b b b b b b b b b b b b 
+b b b b b b b b b b b b b b b b b b b b b b b b b b b b b b b b b b b b b b b b b b b b b b b b b b b b b b b b b b b b b b b b b b b b b b b b b b b b b b b b b b b b b b b b b b b b b b b b b b b b b b b b b b b b b b b b b b b b b b b b b b b b b b b b b b b b b b b b b b b b b b b b b b b b b b b b b b b b b b b b 
+b b b b b b b b b b b b b b b b b b b b b b b b b b b b b b b b b b b b b b b b b b b b b b b b b b b b b b b b b b b b b b b b b b b b b b b b b b b b b b b b b b b b b b b b b b b b b b b b b b b b b b b b b b b b b b b b b b b b b b b b b b b b b b b b b b b b b b b b b b b b b b b b b b b b b b b b b b b b b b b b 
+b b b b b b b b b b b b b b b b b b b b b b b b b b b b b b b b b b b b b b b b b b b b b b b b b b b b b b b b b b b b b b b b b b b b b b b b b b b b b b b b b b b b b b b b b b b b b b b b b b b b b b b b b b b b b b b b b b b b b b b b b b b b b b b b b b b b b b b b b b b b b b b b b b b b b b b b b b b b b b b b 
+b b b b b b b b b b b b b b b b b b b b b b b b b b b b b b b b b b b b b b b b b b b b b b b b b b b b b b b b b b b b b b b b b b b b b b b b b b b b b b b b b b b b b b b b b b b b b b b b b b b b b b b b b b b b b b b b b b b b b b b b b b b b b b b b b b b b b b b b b b b b b b b b b b b b b b b b b b b b b b b b 
+b b b b b b b b b b b b b b b b b b b b b b b b b b b b b b b b b b b b b b b b b b b b b b b b b b b b b b b b b b b b b b b b b b b b b b b b b b b b b b b b b b b b b b b b b b b b b b b b b b b b b b b b b b b b b b b b b b b b b b b b b b b b b b b b b b b b b b b b b b b b b b b b b b b b b b b b b b b b b b b b 
+b b b b b b b b b b b b b b b b b b b b b b b b b b b b b b b b b b b b b b b b b b b b b b b b b b b b b b b b b b b b b b b b b b b b b b b b b b b b b b b b b b b b b b b b b b b b b b b b b b b b b b b b b b b b b b b b b b b b b b b b b b b b b b b b b b b b b b b b b b b b b b b b b b b b b b b b b b b b b b b b 
+b b b b b b b b b b b b b b b b b b b b b b b b b b b b b b b b b b b b b b b b b b b b b b b b b b b b b b b b b b b b b b b b b b b b b b b b b b b b b b b b b b b b b b b b b b b b b b b b b b b b b b b b b b b b b b b b b b b b b b b b b b b b b b b b b b b b b b b b b b b b b b b b b b b b b b b b b b b b b b b b 
+b b b b b b b b b b b b b b b b b b b b b b b b b b b b b b b b b b b b b b b b b b b b b b b b b b b b b b b b b b b b b b b b b b b b b b b b b b b b b b b b b b b b b b b b b b b b b b b b b b b b b b b b b b b b b b b b b b b b b b b b b b b b b b b b b b b b b b b b b b b b b b b b b b b b b b b b b b b b b b b b 
+b b b b b b b b b b b b b b b b b b b b b b b b b b b b b b b b b b b b b b b b b b b b b b b b b b b b b b b b b b b b b b b b b b b b b b b b b b b b b b b b b b b b b b b b b b b b b b b b b b b b b b b b b b b b b b b b b b b b b b b b b b b b b b b b b b b b b b b b b b b b b b b b b b b b b b b b b b b b b b b b 
+b b b b b b b b b b b b b b b b b b b b b b b b b b b b b b b b b b b b b b b b b b b b b b b b b b b b b b b b b b b b b b b b b b b b b b b b b b b b b b b b b b b b b b b b b b b b b b b b b b b b b b b b b b b b b b b b b b b b b b b b b b b b b b b b b b b b b b b b b b b b b b b b b b b b b b b b b b b b b b b b 
+b b b b b b b b b b b b b b b b b b b b b b b b b b b b b b b b b b b b b b b b b b b b b b b b b b b b b b b b b b b b b b b b b b b b b b b b b b b b b b b b b b b b b b b b b b b b b b b b b b b b b b b b b b b b b b b b b b b b b b b b b b b b b b b b b b b b b b b b b b b b b b b b b b b b b b b b b b b b b b b b 
+b b b b b b b b b b b b b b b b b b b b b b b b b b b b b b b b b b b b b b b b b b b b b b b b b b b b b b b b b b b b b b b b b b b b b b b b b b b b b b b b b b b b b b b b b b b b b b b b b b b b b b b b b b b b b b b b b b b b b b b b b b b b b b b b b b b b b b b b b b b b b b b b b b b b b b b b b b b b b b b b 
+b b b b b b b b b b b b b b b b b b b b b b b b b b b b b b b b b b b b b b b b b b b b b b b b b b b b b b b b b b b b b b b b b b b b b b b b b b b b b b b b b b b b b b b b b b b b b b b b b b b b b b b b b b b b b b b b b b b b b b b b b b b b b b b b b b b b b b b b b b b b b b b b b b b b b b b b b b b b b b b b 
+b b b b b b b b b b b b b b b b b b b b b b b b b b b b b b b b b b b b b b b b b b b b b b b b b b b b b b b b b b b b b b b b b b b b b b b b b b b b b b b b b b b b b b b b b b b b b b b b b b b b b b b b b b b b b b b b b b b b b b b b b b b b b b b b b b b b b b b b b b b b b b b b b b b b b b b b b b b b b b b b 
+b b b b b b b b b b b b b b b b b b b b b b b b b b b b b b b b b b b b b b b b b b b b b b b b b b b b b b b b b b b b b b b b b b b b b b b b b b b b b b b b b b b b b b b b b b b b b b b b b b b b b b b b b b b b b b b b b b b b b b b b b b b b b b b b b b b b b b b b b b b b b b b b b b b b b b b b b b b b b b b b 
+b b b b b b b b b b b b b b b b b b b b b b b b b b b b b b b b b b b b b b b b b b b b b b b b b b b b b b b b b b b b b b b b b b b b b b b b b b b b b b b b b b b b b b b b b b b b b b b b b b b b b b b b b b b b b b b b b b b b b b b b b b b b b b b b b b b b b b b b b b b b b b b b b b b b b b b b b b b b b b b b 
+b b b b b b b b b b b b b b b b b b b b b b b b b b b b b b b b b b b b b b b b b b b b b b b b b b b b b b b b b b b b b b b b b b b b b b b b b b b b b b b b b b b b b b b b b b b b b b b b b b b b b b b b b b b b b b b b b b b b b b b b b b b b b b b b b b b b b b b b b b b b b b b b b b b b b b b b b b b b b b b b 
+b b b b b b b b b b b b b b b b b b b b b b b b b b b b b b b b b b b b b b b b b b b b b b b b b b b b b b b b b b b b b b b b b b b b b b b b b b b b b b b b b b b b b b b b b b b b b b b b b b b b b b b b b b b b b b b b b b b b b b b b b b b b b b b b b b b b b b b b b b b b b b b b b b b b b b b b b b b b b b b b 
+b b b b b b b b b b b b b b b b b b b b b b b b b b b b b b b b b b b b b b b b b b b b b b b b b b b b b b b b b b b b b b b b b b b b b b b b b b b b b b b b b b b b b b b b b b b b b b b b b b b b b b b b b b b b b b b b b b b b b b b b b b b b b b b b b b b b b b b b b b b b b b b b b b b b b b b b b b b b b b b b 
+b b b b b b b b b b b b b b b b b b b b b b b b b b b b b b b b b b b b b b b b b b b b b b b b b b b b b b b b b b b b b b b b b b b b b b b b b b b b b b b b b b b b b b b b b b b b b b b b b b b b b b b b b b b b b b b b b b b b b b b b b b b b b b b b b b b b b b b b b b b b b b b b b b b b b b b b b b b b b b b b 
+b b b b b b b b b b b b b b b b b b b b b b b b b b b b b b b b b b b b b b b b b b b b b b b b b b b b b b b b b b b b b b b b b b b b b b b b b b b b b b b b b b b b b b b b b b b b b b b b b b b b b b b b b b b b b b b b b b b b b b b b b b b b b b b b b b b b b b b b b b b b b b b b b b b b b b b b b b b b b b b b 
+b b b b b b b b b b b b b b b b b b b b b b b b b b b b b b b b b b b b b b b b b b b b b b b b b b b b b b b b b b b b b b b b b b b b b b b b b b b b b b b b b b b b b b b b b b b b b b b b b b b b b b b b b b b b b b b b b b b b b b b b b b b b b b b b b b b b b b b b b b b b b b b b b b b b b b b b b b b b b b b b 
+b b b b b b b b b b b b b b b b b b b b b b b b b b b b b b b b b b b b b b b b b b b b b b b b b b b b b b b b b b b b b b b b b b b b b b b b b b b b b b b b b b b b b b b b b b b b b b b b b b b b b b b b b b b b b b b b b b b b b b b b b b b b b b b b b b b b b b b b b b b b b b b b b b b b b b b b b b b b b b b b 
+b b b b b b b b b b b b b b b b b b b b b b b b b b b b b b b b b b b b b b b b b b b b b b b b b b b b b b b b b b b b b b b b b b b b b b b b b b b b b b b b b b b b b b b b b b b b b b b b b b b b b b b b b b b b b b b b b b b b b b b b b b b b b b b b b b b b b b b b b b b b b b b b b b b b b b b b b b b b b b b b 
+b b b b b b b b b b b b b b b b b b b b b b b b b b b b b b b b b b b b b b b b b b b b b b b b b b b b b b b b b b b b b b b b b b b b b b b b b b b b b b b b b b b b b b b b b b b b b b b b b b b b b b b b b b b b b b b b b b b b b b b b b b b b b b b b b b b b b b b b b b b b b b b b b b b b b b b b b b b b b b b b 
+b b b b b b b b b b b b b b b b b b b b b b b b b b b b b b b b b b b b b b b b b b b b b b b b b b b b b b b b b b b b b b b b b b b b b b b b b b b b b b b b b b b b b b b b b b b b b b b b b b b b b b b b b b b b b b b b b b b b b b b b b b b b b b b b b b b b b b b b b b b b b b b b b b b b b b b b b b b b b b b b 
+b b b b b b b b b b b b b b b b b b b b b b b b b b b b b b b b b b b b b b b b b b b b b b b b b b b b b b b b b b b b b b b b b b b b b b b b b b b b b b b b b b b b b b b b b b b b b b b b b b b b b b b b b b b b b b b b b b b b b b b b b b b b b b b b b b b b b b b b b b b b b b b b b b b b b b b b b b b b b b b b 
+b b b b b b b b b b b b b b b b b b b b b b b b b b b b b b b b b b b b b b b b b b b b b b b b b b b b b b b b b b b b b b b b b b b b b b b b b b b b b b b b b b b b b b b b b b b b b b b b b b b b b b b b b b b b b b b b b b b b b b b b b b b b b b b b b b b b b b b b b b b b b b b b b b b b b b b b b b b b b b b b 
+b b b b b b b b b b b b b b b b b b b b b b b b b b b b b b b b b b b b b b b b b b b b b b b b b b b b b b b b b b b b b b b b b b b b b b b b b b b b b b b b b b b b b b b b b b b b b b b b b b b b b b b b b b b b b b b b b b b b b b b b b b b b b b b b b b b b b b b b b b b b b b b b b b b b b b b b b b b b b b b b 
+b b b b b b b b b b b b b b b b b b b b b b b b b b b b b b b b b b b b b b b b b b b b b b b b b b b b b b b b b b b b b b b b b b b b b b b b b b b b b b b b b b b b b b b b b b b b b b b b b b b b b b b b b b b b b b b b b b b b b b b b b b b b b b b b b b b b b b b b b b b b b b b b b b b b b b b b b b b b b b b b 
+b b b b b b b b b b b b b b b b b b b b b b b b b b b b b b b b b b b b b b b b b b b b b b b b b b b b b b b b b b b b b b b b b b b b b b b b b b b b b b b b b b b b b b b b b b b b b b b b b b b b b b b b b b b b b b b b b b b b b b b b b b b b b b b b b b b b b b b b b b b b b b b b b b b b b b b b b b b b b b b b 
+`)
+game.setDialogFrame(img`
+c c c c c c c c c c c c c c c 
+c c c c c c c c c c c c c c c 
+c c c c c c c c c c c c c c c 
+c c c c c c c c c c c c c c c 
+c c c c c c c c c c c c c c c 
+c c c c c d d d d d c c c c c 
+c c c c c d d d d d c c c c c 
+c c c c c d d d d d c c c c c 
+c c c c c d d d d d c c c c c 
+c c c c c d d d d d c c c c c 
+c c c c c c c c c c c c c c c 
+c c c c c c c c c c c c c c c 
+c c c c c c c c c c c c c c c 
+c c c c c c c c c c c c c c c 
+c c c c c c c c c c c c c c c 
+`)
+game.showLongText("Try and collect all 4 keys and escape before the time runs out!", DialogLayout.Bottom)
 createLvl1()
 forever(function () {
     moveBadGuy(badguy)
